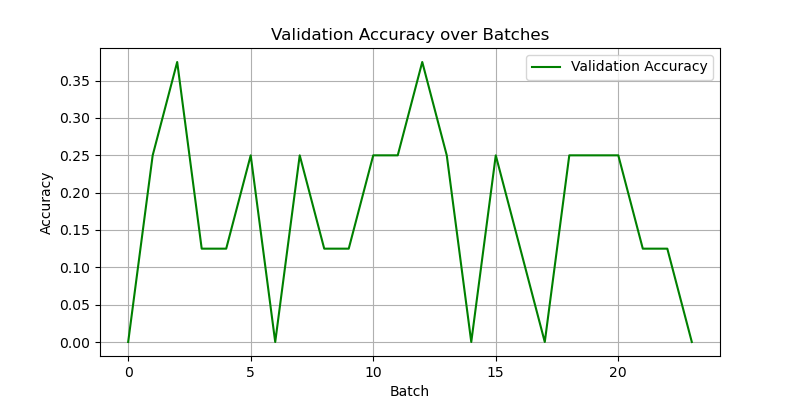
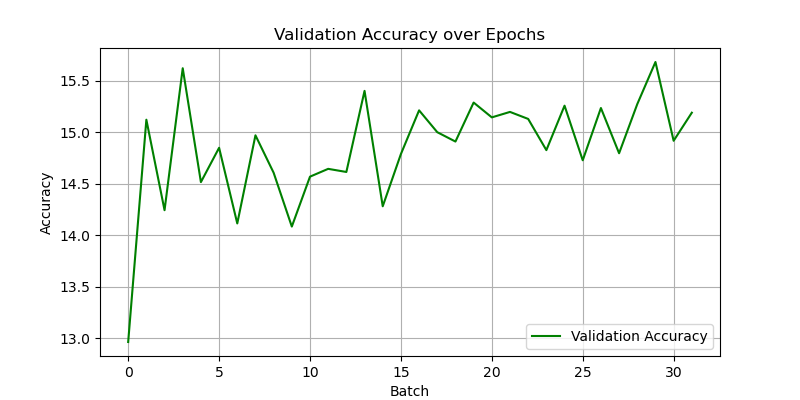
some changes in trains

diff --git a/train_style_encoder.py b/train_style_encoder.py
@@ -16,25 +16,23 @@ from recognition.recognition_helper import RecognitionModel, make_recognition_mo
 
 
 class StyleEncoderContrastive(nn.Module):
-    def __init__(self, external_mapping, batch_size=8, channels=64, features=26,  num_classes=7):
+    def __init__(self, external_mapping, channels=512, features=26,  num_classes=7):
         # features is K*k +1 which here k is 5
         super(StyleEncoderContrastive, self).__init__()
         self.external_mapping = external_mapping
-        self.batch_size = batch_size
+        self.channels = channels
+        self.features = features
 
         self.classifier = nn.Sequential(
-            nn.Linear(channels, 512),
-            nn.BatchNorm1d(features),
+            nn.Linear(channels*features, 512),
             nn.ReLU(),
             nn.Dropout(0.3),
 
             nn.Linear(512, 256),
-            nn.BatchNorm1d(features),
             nn.ReLU(),
             nn.Dropout(0.3),
 
             nn.Linear(256, 128),
-            nn.BatchNorm1d(features),
             nn.ReLU(),
             nn.Dropout(0.3),
 
@@ -43,8 +41,13 @@ class StyleEncoderContrastive(nn.Module):
 
     def forward(self, features):
         # features[0] shape: torch.Size([8, 64, 56, 56])
+        # print("feature[0] shape: ", features[0].shape)
         z = self.external_mapping(features)  # spatial: (B, C, H, W)
+
+        # print("z shape", z.shape)
         # z shape: torch.Size([8, 26, 512])
+        z = z.reshape(-1, self.channels*self.features)
+        # print("z shape", z.shape)
 
         logits = self.classifier(z)
         return logits, z
@@ -66,10 +69,16 @@ if __name__ == "__main__":
         os.makedirs(dirc)
 
     PATH = dirc + '/external_mapping_model.pth'
+    PATH_model = dirc + '/style_model.pth'
     batch_size = 8
     channels = general_cfg['external_mapping']["out_channel"]
+    dim = general_cfg['external_mapping']["spatial_dim"]
+    features = dim*dim + 1
     num_classes = cfg['num_classes']
     lr = 2e-3
+    num_epochs = 50
+    step_size = 5
+    gamma = 0.5
 
     # initialize model and style encoder
     recognition = general_cfg['recognition']
@@ -78,26 +87,30 @@ if __name__ == "__main__":
     recognition_model: RecognitionModel = make_recognition_model(recognition, root, enable_training=False).to(device)
 
     external_mapping = make_external_mapping(general_cfg['external_mapping'], general_cfg['unet_config']).to(device)
-    model = StyleEncoderContrastive(external_mapping, batch_size=batch_size, channels=channels, num_classes=num_classes).to(device)
+    model = StyleEncoderContrastive(external_mapping,
+                                    channels=channels,
+                                    features=features,
+                                    num_classes=num_classes).to(device)
 
     # Load dataset
     dataset_path = os.path.join(root, cfg["dataset_path"])
-    transforms_setting = transforms.Compose([
-        transforms.Resize((cfg["image_size"], cfg["image_size"])),
-        transforms.RandomHorizontalFlip(),
-        transforms.ColorJitter(brightness=0.2, contrast=0.2, saturation=0.1, hue=0.1),
-        transforms.ToTensor(),
-        transforms.Normalize((0.485, 0.456, 0.406), (0.229, 0.224, 0.225))
-    ])
+    # transforms_setting = transforms.Compose([
+    #     transforms.Resize((cfg["image_size"], cfg["image_size"])),
+    #     transforms.RandomHorizontalFlip(),
+    #     transforms.ColorJitter(brightness=0.2, contrast=0.2, saturation=0.1, hue=0.1),
+    #     transforms.ToTensor(),
+    #     transforms.Normalize((0.5, 0.5, 0.5), (0.5, 0.5, 0.5))
+    # ])
 
     datamodule = FaceDataModule(dataset_path=dataset_path,
-                                batch_size=batch_size, transforms_setting=transforms_setting)
+                                batch_size=batch_size)
     datamodule.setup()
     train_dataloader = datamodule.train_dataloader()
     val_dataloader = datamodule.val_dataloader()
 
-    # set an optimizer
+    # set an optimizer and scheduler
     optimizer = torch.optim.Adam(model.parameters(), lr=lr)
+    scheduler = torch.optim.lr_scheduler.StepLR(optimizer, step_size=step_size, gamma=gamma)
 
     loss_history = []
     val_loss_history = []
@@ -105,10 +118,11 @@ if __name__ == "__main__":
 
     best_val_loss = float('inf')
 
-    num_epochs = 10
     for epoch in range(num_epochs):
         # Train model
         print(f"\nEpoch {epoch+1}/{num_epochs}")
+        mean_train_loss = 0
+        corrects = 0
         model.train()
         train_pbar = tqdm(train_dataloader, desc="Training", ncols=100)
         for batch in train_pbar:
@@ -116,43 +130,64 @@ if __name__ == "__main__":
 
             _, spatial = recognition_model(batch["exp_img"])
             logits, _ = model(spatial)
-            labels = F.one_hot(batch['target_label'], num_classes=num_classes)
+            labels = F.one_hot(batch['target_label'], num_classes=num_classes).float()
 
             ce_loss = F.cross_entropy(logits, labels)
+            optimizer.zero_grad()
             ce_loss.backward()
             optimizer.step()
-            optimizer.zero_grad()
 
-            loss_history.append(ce_loss.item())
+            train_loss = ce_loss.item()
+            mean_train_loss += train_loss
+
             preds = torch.argmax(logits, dim=1)
-            acc = (preds == labels).float().mean().item()
-            train_pbar.set_postfix({"Loss": f"{ce_loss.item():.4f}", "Acc": f"{acc:.4f}"})
+            corrects += (preds == batch['target_label']).float().sum()
+            train_pbar.set_postfix({"Loss": f"{train_loss:.4f}", "lr": optimizer.param_groups[0]["lr"]})
 
-        torch.save(external_mapping.state_dict(), PATH)
+        mean_train_loss = mean_train_loss / len(train_dataloader)
+        loss_history.append(mean_train_loss)
+        print("Mean of Train loss:", mean_train_loss)
+
+        accuracy = 100 * corrects / len(datamodule.data_train)
+        print("Accuracy = {}".format(accuracy))
+        if epoch < 30:
+            scheduler.step()
 
         # Eval model
         model.eval()
+        mean_val_loss = 0
+        corrects = 0
+
         with torch.no_grad():
             val_pbar = tqdm(val_dataloader, desc="Validation", ncols=100)
             for batch in val_pbar:
                 batch = {k: v.to(device) for k, v in batch.items()}
                 _, spatial = recognition_model(batch["exp_img"])
                 logits, _ = model(spatial)
-                labels = F.one_hot(batch['target_label'], num_classes=num_classes)
+                labels = F.one_hot(batch['target_label'], num_classes=num_classes).float()
 
                 ce_loss = F.cross_entropy(logits, labels)
                 val_loss = ce_loss.item()
-                val_loss_history.append(val_loss)
+                mean_val_loss += val_loss
 
                 preds = torch.argmax(logits, dim=1)
-                acc = (preds == labels).float().mean().item()
-                val_acc_history.append(acc)
+                corrects += (preds == batch['target_label']).float().sum().item()
 
-                val_pbar.set_postfix({"ValLoss": f"{val_loss:.4f}", "ValAcc": f"{acc:.4f}"})
 
-        if val_loss < best_val_loss:
-            best_val_loss = val_loss
-            torch.save(model.state_dict(), PATH.replace(".pth", "_best.pth"))
+                val_pbar.set_postfix({"ValLoss": f"{val_loss:.4f}"})
+
+            mean_val_loss = mean_val_loss/len(val_dataloader)
+            val_loss_history.append(mean_val_loss)
+            print("Mean of validation loss:", mean_val_loss)
+
+            accuracy = 100 * corrects / len(datamodule.data_val)
+            print("Accuracy = {}".format(accuracy))
+            val_acc_history.append(accuracy)
+
+        if mean_val_loss < best_val_loss:
+            best_val_loss = mean_val_loss
+            torch.save(external_mapping.state_dict(), PATH.replace(".pth", "_best.pth"))
+            torch.save(model.state_dict(), PATH_model)
 
 
     # === loss , accuracy plots ===
@@ -161,7 +196,7 @@ if __name__ == "__main__":
     plt.plot(val_loss_history, label='Validation Loss')
     plt.xlabel('Batch')
     plt.ylabel('Loss')
-    plt.title('Loss over Batches')
+    plt.title('Loss over Epochs')
     plt.legend()
     plt.grid(True)
     plt.savefig('loss.png')
@@ -171,7 +206,7 @@ if __name__ == "__main__":
     plt.plot(val_acc_history, label='Validation Accuracy', color='green')
     plt.xlabel('Batch')
     plt.ylabel('Accuracy')
-    plt.title('Validation Accuracy over Batches')
+    plt.title('Validation Accuracy over Epochs')
     plt.legend()
     plt.grid(True)
     plt.savefig('Accuracy.png')

diff --git a/train.py b/train.py
@@ -14,10 +14,10 @@ from utils.callbacks import create_list_of_callbacks
 from datamodules.face_datamodule import FaceDataModule
 from utils.os_utils import get_latest_file
 
-epochs = 100
+epochs = 30
 n_steps = 1000
-use_pretrained = True  # True: Finetune unet, False: Train from 0 unet
-continue_training = False
+use_pretrained = True  # True: Finetune unet from main dcface, False: Train from 0 unet
+continue_training = False # Training of Trainer
 
 
 def training(cfg, general_cfg):
@@ -61,6 +61,7 @@ def training(cfg, general_cfg):
                                recognition_eval=general_cfg['recognition_eval'],
                                label_mapping=general_cfg['label_mapping'],
                                external_mapping=general_cfg['external_mapping'],
+                               pretrained_style_path=cfg['style_ckpt_path'],
                                output_dir=cfg["output_dir"],
                                mse_loss_lambda=cfg["mse_loss_lambda"],
                                identity_consistency_loss_lambda=cfg["identity_consistency_loss_lambda"],
@@ -71,10 +72,10 @@ def training(cfg, general_cfg):
     print("Instantiating callbacks...")
     callbacks = create_list_of_callbacks(model_ckpt_path)
 
-    print("Instantiating loggers...")
+    # print("Instantiating loggers...")
     # logger = WandbLogger(project=cfg["project"], log_model='all', id=cfg["id"], save_dir=cfg["log_dir"], )
     print("before train.....................................................................")
-    strategy = DDPStrategy(find_unused_parameters=True)
+    strategy = DDPStrategy(find_unused_parameters=False)
     trainer = pl.Trainer(accelerator="gpu", callbacks=callbacks,
                          strategy=strategy, max_epochs=epochs,
                          # logger=logger

diff --git a/Trainer.py b/Trainer.py
@@ -45,6 +45,7 @@ class Trainer(pl.LightningModule):
                  use_ema=True,
                  device=None,
                  use_pretrained=False,
+                 pretrained_style_path=None,
                  image_size=112,
                  root='',
                  *args, **kwargs
@@ -74,8 +75,6 @@ class Trainer(pl.LightningModule):
         recognition['ckpt_path'] = os.path.join(root, recognition['ckpt_path'])
         recognition['center_path'] = os.path.join(root, recognition['center_path'])
         recognition_eval['center_path'] = os.path.join(root, recognition_eval['center_path'])
-        print('++++++++++++++++++------------------')
-        print(recognition['ckpt_path'])
 
         self.model = model_helper.make_unet(unet_config)
         self.ema_model = EMAModel(self.model, inv_gamma=1.0, power=3 / 4, max_value=0.9999)
@@ -111,11 +110,15 @@ class Trainer(pl.LightningModule):
 
         self.external_mapping = make_external_mapping(external_mapping, unet_config)
 
+        if pretrained_style_path:
+            pretrained_style_path = os.path.join(root, pretrained_style_path)
+            self.external_mapping.load_state_dict(torch.load(pretrained_style_path, weights_only=True))
+
 
         if use_pretrained: #use pretrained unet
             ckpt_path = os.path.join(root, unet_config['params']['pretrained_model_path'])
 
-            statedict = torch.load(ckpt_path, map_location='cpu')
+            statedict = torch.load(ckpt_path, map_location='cpu', weights_only=True)
             self.model.load_state_dict(statedict, strict=True)
 
 

diff --git a/utils/callbacks.py b/utils/callbacks.py
@@ -4,14 +4,14 @@ from pytorch_lightning.callbacks import LearningRateMonitor
 def create_list_of_callbacks(path):
     lr_monitor = LearningRateMonitor(logging_interval='step')
     model_checkpoint = ModelCheckpoint(
-        # monitor='val_loss',
         dirpath=path,
         filename= "epoch_{epoch:03d}",
         monitor= "val/mse_loss",
         save_last= True,
-        every_n_epochs=10,
+        every_n_epochs=5,
         save_top_k=1,
-        mode='min',)
+        mode='min',
+        save_weights_only= False,)
 
     callbacks = [lr_monitor, model_checkpoint]
     return callbacks
